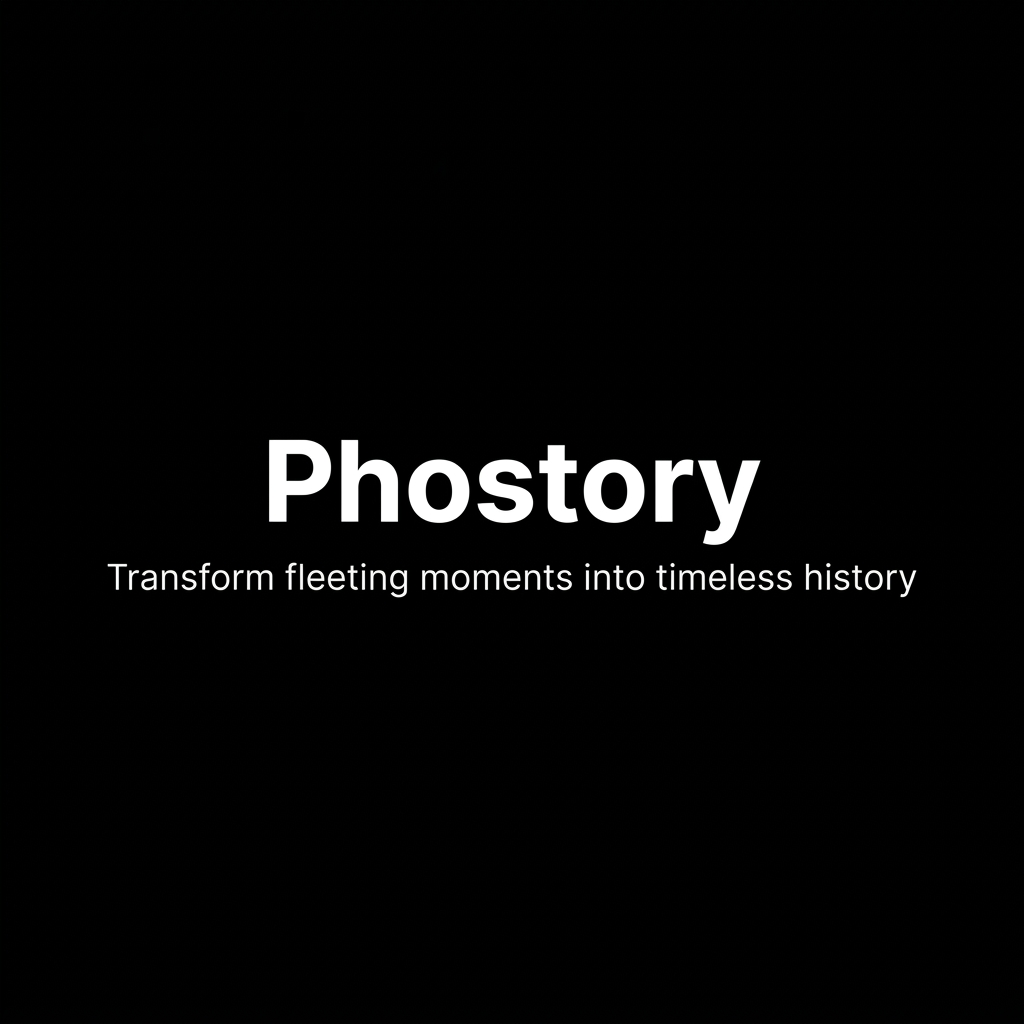
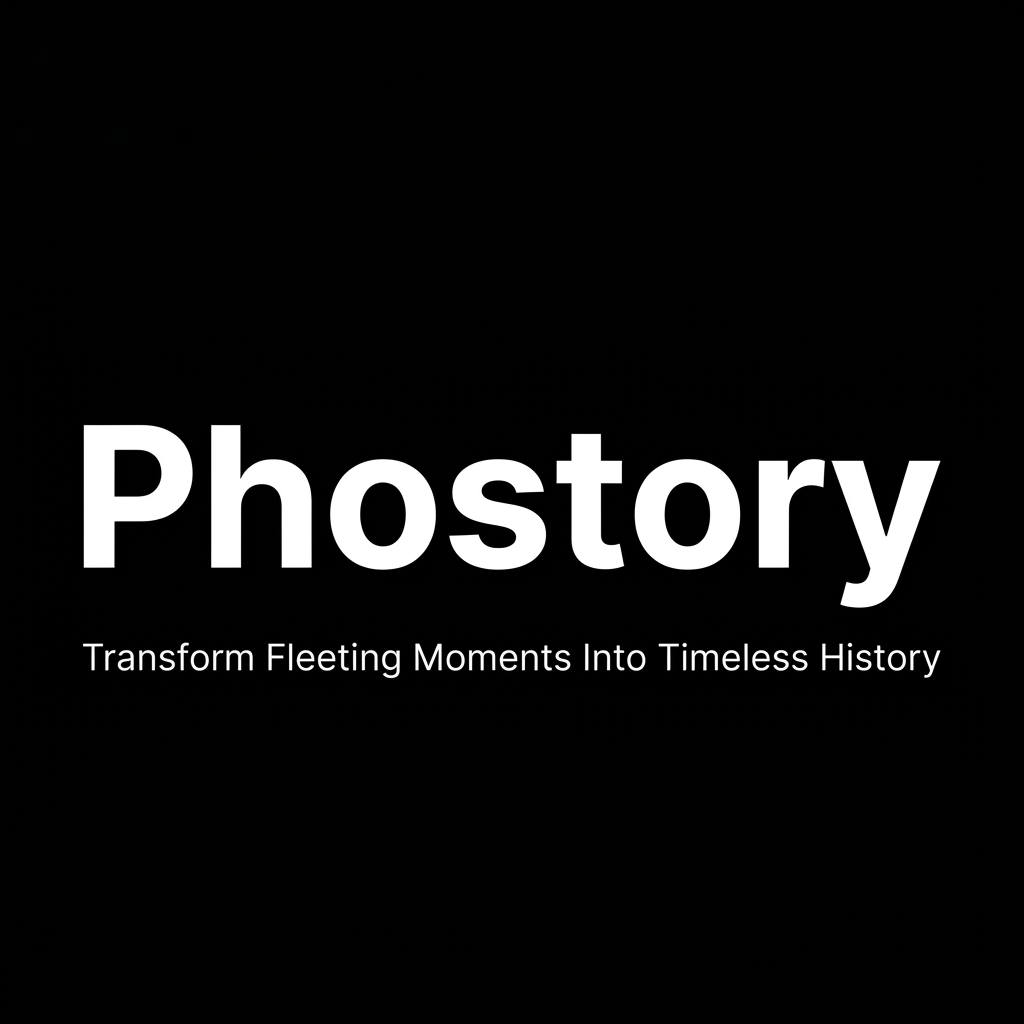
a

Changed region(s): [[0.0625, 0.4062, 0.9375, 0.5938], [0.0625, 0.625, 0.9375, 0.6562]]

diff --git a/index.html b/index.html
@@ -11,24 +11,27 @@
 
     <!-- Primary Meta Tags -->
     <meta name="title" content="Phostory">
-    <meta name="description" content="Transform fleeting moments into timeless history. Record and share your visual stories with the world.">
+    <meta name="description"
+        content="Transform fleeting moments into timeless history. Record and share your visual stories with the world.">
 
     <!-- Open Graph / Facebook -->
     <meta property="og:type" content="website">
     <meta property="og:url" content="https://phostory.studio/">
     <meta property="og:title" content="Phostory">
-    <meta property="og:description" content="Transform fleeting moments into timeless history. Record and share your visual stories with the world.">
+    <meta property="og:description"
+        content="Transform fleeting moments into timeless history. Record and share your visual stories with the world.">
     <meta property="og:image" content="https://phostory.studio/phostory_og_image.png">
 
     <!-- Twitter -->
     <meta property="twitter:card" content="summary_large_image">
     <meta property="twitter:url" content="https://phostory.studio/">
     <meta property="twitter:title" content="Phostory">
-    <meta property="twitter:description" content="Transform fleeting moments into timeless history. Record and share your visual stories with the world.">
+    <meta property="twitter:description"
+        content="Transform fleeting moments into timeless history. Record and share your visual stories with the world.">
     <meta property="twitter:image" content="https://phostory.studio/phostory_og_image.png">
     <script type="text/javascript">
         // --- GitHub Pages SPA URL Restoration ---
-        (function(l) {
+        (function (l) {
             var search = l.search;
             // Check for /?/path or ?p=path
             if (search[1] === '/' || (search.slice(1, 4) === 'p=' || search.slice(1, 3) === 'p=')) {
@@ -39,11 +42,11 @@
                     // find where the path actually starts (after p=)
                     path = search.slice(search.indexOf('p=') + 2);
                 }
-                
-                var decoded = path.split('&').map(function(s) { 
+
+                var decoded = path.split('&').map(function (s) {
                     return s.replace(/~and~/g, '&')
                 }).join('?');
-                
+
                 // Ensure decoded path starts with /
                 if (!decoded.startsWith('/')) decoded = '/' + decoded;
 
@@ -55,23 +58,23 @@
     </script>
     <!-- Smart Path Resolver for SPA Routing -->
     <script>
-        (function() {
-            var path = window.location.pathname;
-            // If we are at a deep path (like /username), adjust relative links
-            if (path.replace(/^\/|\/$/g, '').split('/').length > 0 && 
-                !path.endsWith('/') && !path.endsWith('index.html') && path !== '/') {
-                var depth = path.replace(/^\/|\/$/g, '').split('/').length;
-                if (window.location.hostname.includes('github.io')) {
-                    // GitHub Pages subdirectory check
-                    var parts = path.split('/');
-                    if (parts.length > 2) {
-                        document.write('<base href="' + window.location.origin + '/' + parts[1] + '/">');
+            (function () {
+                var path = window.location.pathname;
+                // If we are at a deep path (like /username), adjust relative links
+                if (path.replace(/^\/|\/$/g, '').split('/').length > 0 &&
+                    !path.endsWith('/') && !path.endsWith('index.html') && path !== '/') {
+                    var depth = path.replace(/^\/|\/$/g, '').split('/').length;
+                    if (window.location.hostname.includes('github.io')) {
+                        // GitHub Pages subdirectory check
+                        var parts = path.split('/');
+                        if (parts.length > 2) {
+                            document.write('<base href="' + window.location.origin + '/' + parts[1] + '/">');
+                        }
+                    } else {
+                        document.write('<base href="/">');
                     }
-                } else {
-                    document.write('<base href="/">');
                 }
-            }
-        })();
+            })();
     </script>
     <link rel="stylesheet" href="style.css">
     <!-- Apply Google Fonts Outfit for a polished look -->
@@ -145,7 +148,8 @@
 
                 <p>Phostory is developed under the vision and support of <strong>Geonwoo Yoo</strong>, CEO of
                     <strong>Lab. U</strong>. As an integral part of <strong>Lab. U</strong>, Phostory reflects our
-                    shared commitment to innovation and the preservation of human narratives.</p>
+                    shared commitment to innovation and the preservation of human narratives.
+                </p>
 
                 <div class="about-features">
                     <div class="feature-card">
@@ -1266,7 +1270,7 @@
                     } else {
                         throw new Error('Clipboard API unavailable');
                     }
-                    
+
                     const originalText = copyLinkBtn.textContent;
                     copyLinkBtn.textContent = 'Copied!';
                     setTimeout(() => copyLinkBtn.textContent = originalText, 2000);
@@ -1277,7 +1281,7 @@
                     profileLinkInput.select();
                     document.execCommand('copy');
                     profileLinkInput.value = originalValue; // Restore visual https
-                    
+
                     copyLinkBtn.textContent = 'Copied!';
                     setTimeout(() => copyLinkBtn.textContent = 'Copy', 2000);
                 }
@@ -1625,10 +1629,10 @@
         if (btnConfirmDeleteAccPage) {
             btnConfirmDeleteAccPage.addEventListener('click', async () => {
                 const confirmed = await showConfirmModal(
-                    "Delete Your Account?", 
+                    "Delete Your Account?",
                     "This action is permanent and cannot be undone. All your stories and data will be removed. Proceed?"
                 );
-                
+
                 if (!confirmed) return;
 
                 btnConfirmDeleteAccPage.disabled = true;
@@ -1770,7 +1774,7 @@
                     const { data: fallbackPosts } = await supabase.from('posts').select('*').eq('is_public', true).is('deleted_at', null).order('created_at', { ascending: false });
                     return mapPosts(fallbackPosts || [], new Set());
                 }
-                
+
                 // Fetch likes if user logged in
                 let myLikePostIds = new Set();
                 if (currentUserId) {
@@ -1813,7 +1817,7 @@
 
         async function renderGrid(category = 'All') {
             const currentFilter = category;
-            
+
             // Critical: Reset column count tracker so the renderer is forced to run even if width is unchanged
             if (masonryGrid) masonryGrid._currentColCount = null;
 
@@ -2141,20 +2145,20 @@
 
         // --- SPA Routing / URL Parameter Handling ---
         const urlParamsFromPage = new URLSearchParams(window.location.search);
-        
+
         // Check for ?user=ID, ?p=ID, or clean /ID format
         let targetUsername = urlParamsFromPage.get('user') || urlParamsFromPage.get('p');
-        
+
         if (!targetUsername) {
-            const pathname = window.location.pathname.replace(/^\/|\/$/g, ''); 
+            const pathname = window.location.pathname.replace(/^\/|\/$/g, '');
             // Filter technical files and Phostory base path if on github.io
             const pathParts = pathname.split('/');
             const lastPart = pathParts[pathParts.length - 1];
-            
+
             if (lastPart && lastPart !== 'index.html') {
                 const techExts = ['.html', '.css', '.js', '.png', '.jpg', '.jpeg', '.gif', '.ico', '.json', '.map', '.txt', '.xml'];
                 const isTechFile = techExts.some(ext => lastPart.toLowerCase().endsWith(ext));
-                
+
                 if (!isTechFile) {
                     targetUsername = lastPart;
                 }
@@ -2494,7 +2498,7 @@
 
                         delBtn.onclick = async (e) => {
                             e.stopPropagation();
-                            
+
                             const myRole = await getLatestRole();
                             if (myRole !== 'operator' && isStaff(profile.role)) {
                                 showToast("Access Denied: Administrative Tier Protection.", "error");
@@ -2572,11 +2576,11 @@
                     async function lookup(idOrEmail) {
                         if (!idOrEmail) return null;
                         const cleanId = idOrEmail.replace(/^@/, '');
-                        
+
                         // Try by username
                         let { data: u1 } = await supabase.from('profiles').select('*').eq('username', cleanId).maybeSingle();
                         if (u1) return u1;
-                        
+
                         // Try by email
                         let { data: u2 } = await supabase.from('profiles').select('*').eq('email', idOrEmail).maybeSingle();
                         if (u2) return u2;
@@ -2584,7 +2588,7 @@
                         // Try by raw ID
                         let { data: u3 } = await supabase.from('profiles').select('*').eq('id', idOrEmail).maybeSingle();
                         if (u3) return u3;
-                        
+
                         return null;
                     }
 
@@ -2601,11 +2605,11 @@
                             case '/role': {
                                 if (myRole !== 'operator') { showToast("Permission Denied: Operator role required.", "error"); break; }
                                 if (parts.length !== 3) { showToast("Strict Syntax: /role [role] [id]", "error"); break; }
-                                
+
                                 const newRole = parts[1].toLowerCase();
                                 const targetId = parts[2];
                                 const validRoles = ['admin', 'developer', 'operator', 'official', 'user'];
-                                
+
                                 if (!validRoles.includes(newRole)) { showToast("Invalid Role defined.", "error"); break; }
 
                                 const user = await lookup(targetId);
@@ -2621,7 +2625,7 @@
                             case '/unrole': {
                                 if (myRole !== 'operator') { showToast("Permission Denied: Operator role required.", "error"); break; }
                                 if (parts.length !== 2) { showToast("Strict Syntax: /unrole [id]", "error"); break; }
-                                
+
                                 const targetId = parts[1];
                                 const user = await lookup(targetId);
                                 if (user) {
@@ -2634,11 +2638,11 @@
                             }
 
                             case '/change': {
-                                if (parts.length !== 4 || parts[2].toLowerCase() !== 'to') { 
-                                    showToast("Strict Syntax: /change [old] to [new]", "error"); 
-                                    break; 
+                                if (parts.length !== 4 || parts[2].toLowerCase() !== 'to') {
+                                    showToast("Strict Syntax: /change [old] to [new]", "error");
+                                    break;
                                 }
-                                
+
                                 const oldId = parts[1];
                                 const newId = parts[3];
 
@@ -2658,10 +2662,10 @@
 
                             case '/reset': {
                                 if (parts.length !== 3) { showToast("Strict Syntax: /reset [profile|bio|pw] [id]", "error"); break; }
-                                
+
                                 const type = parts[1].toLowerCase();
                                 const targetId = parts[2];
-                                
+
                                 const user = await lookup(targetId);
                                 if (!user) { showToast(`Target Not Found: ${targetId}`, "error"); break; }
 
@@ -2694,46 +2698,46 @@
                                 break;
                             }
 
-                                case '/delete': {
-                                    if (parts.length !== 2) { showToast("Strict Syntax: /delete [id]", "error"); break; }
-                                    const targetId = parts[1];
-                                    const user = await lookup(targetId);
-                                    if (!user) { showToast(`Target Not Found: ${targetId}`, "error"); break; }
+                            case '/delete': {
+                                if (parts.length !== 2) { showToast("Strict Syntax: /delete [id]", "error"); break; }
+                                const targetId = parts[1];
+                                const user = await lookup(targetId);
+                                if (!user) { showToast(`Target Not Found: ${targetId}`, "error"); break; }
 
-                                    if (isProtected(myRole, user.role)) {
-                                        showToast("Access Denied: Administrative Tier Protection.", "error");
-                                        break;
-                                    }
-
-                                    // Nuclear Purge (Calls backend RPC to wipe Auth + Profiles + Data)
-                                    try {
-                                        // 1. Wipe activity first
-                                        await supabase.from('likes').delete().eq('user_id', user.id);
-                                        await supabase.from('posts').update({ deleted_at: new Date().toISOString() }).eq('user_id', user.id);
-
-                                        // 2. Call the Security Definer Function (Requires the SQL setup I provided)
-                                        // This snaps the finger and wipes the account from Auth and Profiles simultaneously.
-                                        const { error: rpcError } = await supabase.rpc('delete_user_by_admin', { target_id: user.id });
-                                        
-                                        if (rpcError) {
-                                            console.warn("RPC Failed. Attempting frontend-only fallback...", rpcError);
-                                            // Fallback if SQL function hasn't been set up yet
-                                            await supabase.from('profiles').delete().eq('id', user.id);
-                                            await supabase.from('profiles').update({ 
-                                                username: `deleted_${Date.now()}_${user.id.substring(0,4)}`,
-                                                role: 'user'
-                                            }).eq('id', user.id);
-                                            showToast(`Limited Purge: Profile masked. (Did you run the SQL?)`, "warning");
-                                        } else {
-                                            showToast(`Nuclear Purge: ${user.username} fully erased from system.`);
-                                        }
-                                        
-                                        await renderAdminUsers();
-                                    } catch (err) {
-                                        showToast(`Action Failed: ${err.message}`, "error");
-                                    }
+                                if (isProtected(myRole, user.role)) {
+                                    showToast("Access Denied: Administrative Tier Protection.", "error");
                                     break;
                                 }
+
+                                // Nuclear Purge (Calls backend RPC to wipe Auth + Profiles + Data)
+                                try {
+                                    // 1. Wipe activity first
+                                    await supabase.from('likes').delete().eq('user_id', user.id);
+                                    await supabase.from('posts').update({ deleted_at: new Date().toISOString() }).eq('user_id', user.id);
+
+                                    // 2. Call the Security Definer Function (Requires the SQL setup I provided)
+                                    // This snaps the finger and wipes the account from Auth and Profiles simultaneously.
+                                    const { error: rpcError } = await supabase.rpc('delete_user_by_admin', { target_id: user.id });
+
+                                    if (rpcError) {
+                                        console.warn("RPC Failed. Attempting frontend-only fallback...", rpcError);
+                                        // Fallback if SQL function hasn't been set up yet
+                                        await supabase.from('profiles').delete().eq('id', user.id);
+                                        await supabase.from('profiles').update({
+                                            username: `deleted_${Date.now()}_${user.id.substring(0, 4)}`,
+                                            role: 'user'
+                                        }).eq('id', user.id);
+                                        showToast(`Limited Purge: Profile masked. (Did you run the SQL?)`, "warning");
+                                    } else {
+                                        showToast(`Nuclear Purge: ${user.username} fully erased from system.`);
+                                    }
+
+                                    await renderAdminUsers();
+                                } catch (err) {
+                                    showToast(`Action Failed: ${err.message}`, "error");
+                                }
+                                break;
+                            }
 
                             case '/unofficial': {
                                 showToast("Notice: Commands /official and /unofficial are deprecated. Use /role official.", "info");